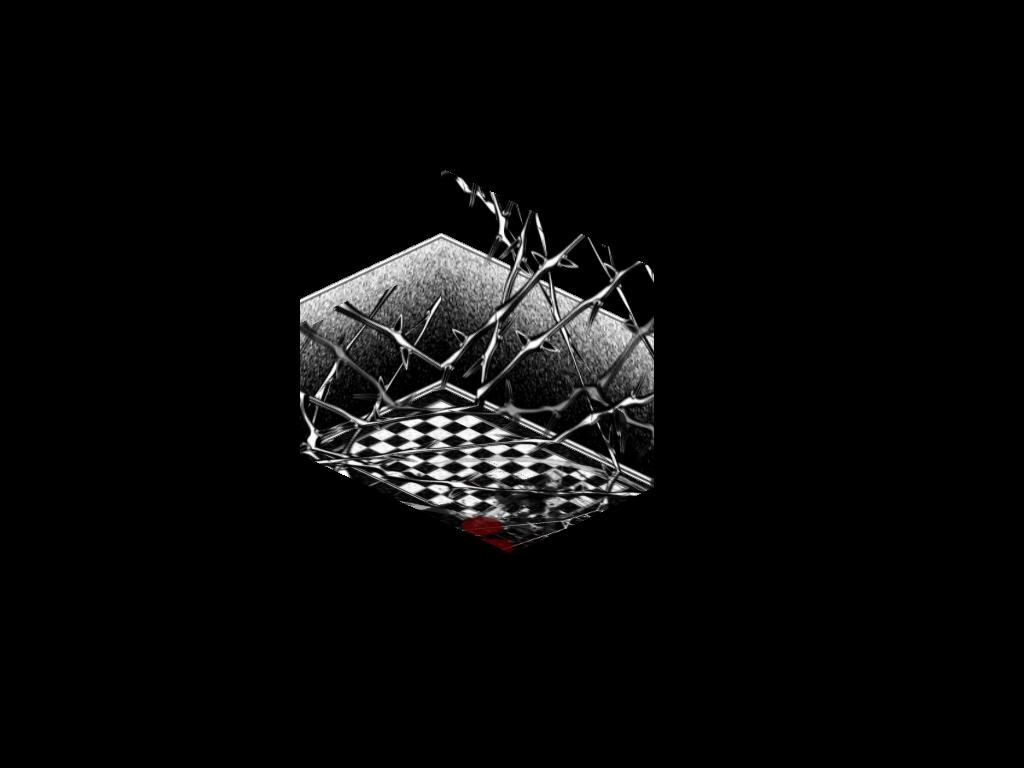
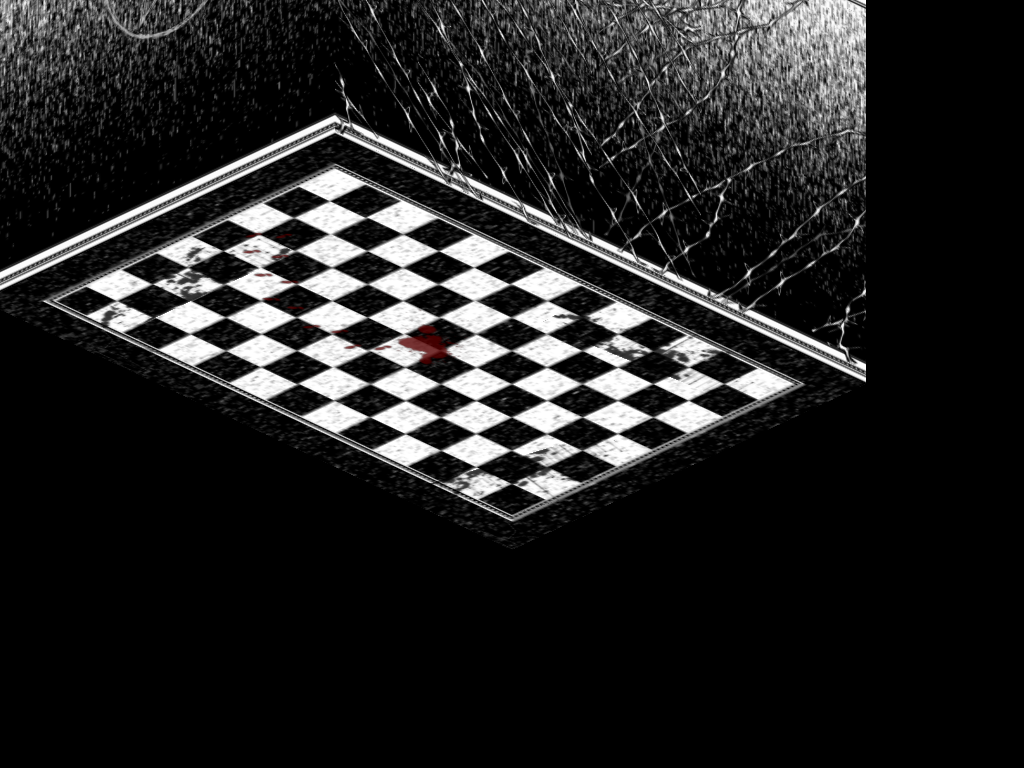
fix: make the house viewer test draw a real floor
tdd: green

Changed region(s): [[0.0, 0.0, 0.8438, 0.7188]]

diff --git a/house/house_viewer.go b/house/house_viewer.go
@@ -1,11 +1,14 @@
 package house
 
 import (
+	"fmt"
+	"math"
+	"reflect"
+
+	"github.com/MobRulesGames/haunts/logging"
 	"github.com/MobRulesGames/mathgl"
 	"github.com/runningwild/glop/gui"
 	"github.com/runningwild/glop/util/algorithm"
-	"math"
-	"reflect"
 )
 
 // This structure is used for temporary doors (that are being dragged around in
@@ -170,16 +173,11 @@ func (hv *HouseViewer) SetState(state HouseViewerState) {
 	hv.HouseViewerState = state
 }
 
-// Changes the current zoom from e^(zoom) to e^(zoom+dz)
-func (hv *HouseViewer) Zoom(dz float64) {
+func (hv *HouseViewer) Zoom(dz float32) {
 	if dz == 0 {
-		return
+		panic(fmt.Errorf("you don't want 0 zoom; it means don't draw anything!"))
 	}
-	exp := math.Log(float64(hv.zoom)) + dz
-	// This effectively clamps the 100x150 sprites to a width in the range
-	// [25,100]
-	exp = float64(clamp(float32(exp), 2.87130468509059, 4.25759904621048))
-	hv.zoom = float32(math.Exp(exp))
+	hv.zoom = dz
 	hv.target_zoom_on = false
 }
 
@@ -365,5 +363,6 @@ func (hv *HouseViewer) Draw(region gui.Region, ctx gui.DrawingContext) {
 		hv.temp_floor_drawers = append(hv.temp_floor_drawers, fd)
 	}
 
+	logging.Debug("HouseViewer.Draw", "zoom", hv.zoom)
 	hv.house.Floors[0].render(region, hv.fx, hv.fy, hv.angle, hv.zoom, hv.drawables, hv.Los_tex, hv.temp_floor_drawers)
 }

diff --git a/house/room_test.go b/house/room_test.go
@@ -8,6 +8,7 @@ import (
 	"github.com/MobRulesGames/haunts/base"
 	"github.com/MobRulesGames/haunts/house"
 	"github.com/MobRulesGames/haunts/house/housetest"
+	"github.com/MobRulesGames/haunts/logging"
 	"github.com/MobRulesGames/haunts/registry"
 	"github.com/MobRulesGames/haunts/texture"
 	"github.com/runningwild/glop/render"
@@ -56,7 +57,7 @@ func RoomSpecs() {
 	dx, dy := 1024, 768
 	opaquealpha := byte(255)
 
-	camera := housetest.Camera().ForSize(dx, dy).At(256, 256)
+	camera := housetest.Camera().ForSize(dx, dy).At(5, 5).AtZoom(50.0)
 
 	rendertest.DeprecatedWithGlForTest(dx, dy, func(sys system.System, queue render.RenderQueueInterface) {
 		registry.LoadAllRegistries()
@@ -87,6 +88,7 @@ func RoomSpecs() {
 
 			queue.Queue(func(render.RenderQueueState) {
 				house.WithRoomRenderGlSettings(floor, func() {
+					logging.Info("about to render wall textures", "floor", render.Showmat(floor))
 					room.RenderWallTextures(&floor, opaquealpha)
 				})
 			})

diff --git a/main.go b/main.go
@@ -133,7 +133,7 @@ func init() {
 
 type draggerZoomer interface {
 	Drag(float64, float64)
-	Zoom(float64)
+	Zoom(float32)
 }
 
 func draggingAndZooming(ui *gui.Gui, dz draggerZoomer) {
@@ -144,14 +144,15 @@ func draggingAndZooming(ui *gui.Gui, dz draggerZoomer) {
 		return
 	}
 
+	// TODO(#29): figure out the scale/style that makes sense here
 	var zoom float64
 	if gin.In().GetKeyById(gin.AnySpace).FramePressAmt() > 0 {
 		zoom = gin.In().GetKeyById(gin.AnyMouseWheelVertical).FramePressAmt()
 	}
-	dz.Zoom(zoom / 100)
+	dz.Zoom(float32(zoom) / 100)
 
-	dz.Zoom(key_map["zoom in"].FramePressAmt() / 20)
-	dz.Zoom(-key_map["zoom out"].FramePressAmt() / 20)
+	dz.Zoom(float32(key_map["zoom in"].FramePressAmt()) / 20)
+	dz.Zoom(float32(-key_map["zoom out"].FramePressAmt()) / 20)
 
 	if key_map["drag"].IsDown() != dragging {
 		dragging = !dragging

diff --git a/house/room_viewer.go b/house/room_viewer.go
@@ -213,7 +213,7 @@ func makeRoomMats(roomSize RoomSize, region gui.Region, focusx, focusy, angle, z
 	iright.Assign(&right)
 	iright.Inverse()
 
-	logging.Trace("makeRoomMats returning",
+	logging.Debug("makeRoomMats returning",
 		"roomsize", roomSize,
 		"region", region,
 		"focusx", focusx,
@@ -345,11 +345,11 @@ func clamp(f, min, max float32) float32 {
 }
 
 // Changes the current zoom from e^(zoom) to e^(zoom+dz)
-func (rv *roomViewer) Zoom(dz float64) {
+func (rv *roomViewer) Zoom(dz float32) {
 	if dz == 0 {
 		return
 	}
-	exp := math.Log(float64(rv.zoom)) + dz
+	exp := math.Log(float64(rv.zoom)) + float64(dz)
 	exp = float64(clamp(float32(exp), 2.5, 5.0))
 	rv.zoom = float32(math.Exp(exp))
 	rv.makeMat()

diff --git a/house/wall_texture.go b/house/wall_texture.go
@@ -137,8 +137,8 @@ func (wt *WallTexture) setupGlStuff(roomX, roomY, roomDx, roomDy int, glIDs *wal
 	// TODO(tmckee): we _were_ dividing these by 100 ... why?
 	// Maybe the source images for the textures were much larger than the
 	// expected size of the decal?
-	tdx := float32(wt.Texture.Data().Dx())
-	tdy := float32(wt.Texture.Data().Dy())
+	tdx := float32(wt.Texture.Data().Dx() / 100)
+	tdy := float32(wt.Texture.Data().Dy() / 100)
 
 	wtx := wt.X
 	wty := wt.Y

diff --git a/house/house_viewer_test.go b/house/house_viewer_test.go
@@ -15,7 +15,9 @@ import (
 var _ gametest.Drawer = (*house.HouseViewer)(nil)
 
 func givenAHouseViewer(queue render.RenderQueueInterface) gametest.Drawer {
-	return house.MakeHouseViewer(housetest.GivenAHouseDef(), 62)
+	ret := house.MakeHouseViewer(housetest.GivenAHouseDef(), 62)
+	ret.Zoom(10)
+	return ret
 }
 
 func TestHouseViewer(t *testing.T) {

diff --git a/house/room.go b/house/room.go
@@ -992,7 +992,7 @@ func (w *RoomEditorPanel) GetViewer() Viewer {
 
 type Viewer interface {
 	gui.Widget
-	Zoom(float64)
+	Zoom(float32)
 	Drag(float64, float64)
 	WindowToBoard(int, int) (float32, float32)
 	BoardToWindow(float32, float32) (int, int)

diff --git a/house/housetest/matrices.go b/house/housetest/matrices.go
@@ -78,3 +78,8 @@ func (c CameraConfig) AtAngle(theta float32) CameraConfig {
 	c.Angle = theta
 	return c
 }
+
+func (c CameraConfig) AtZoom(zoom float32) CameraConfig {
+	c.Zoom = zoom
+	return c
+}
